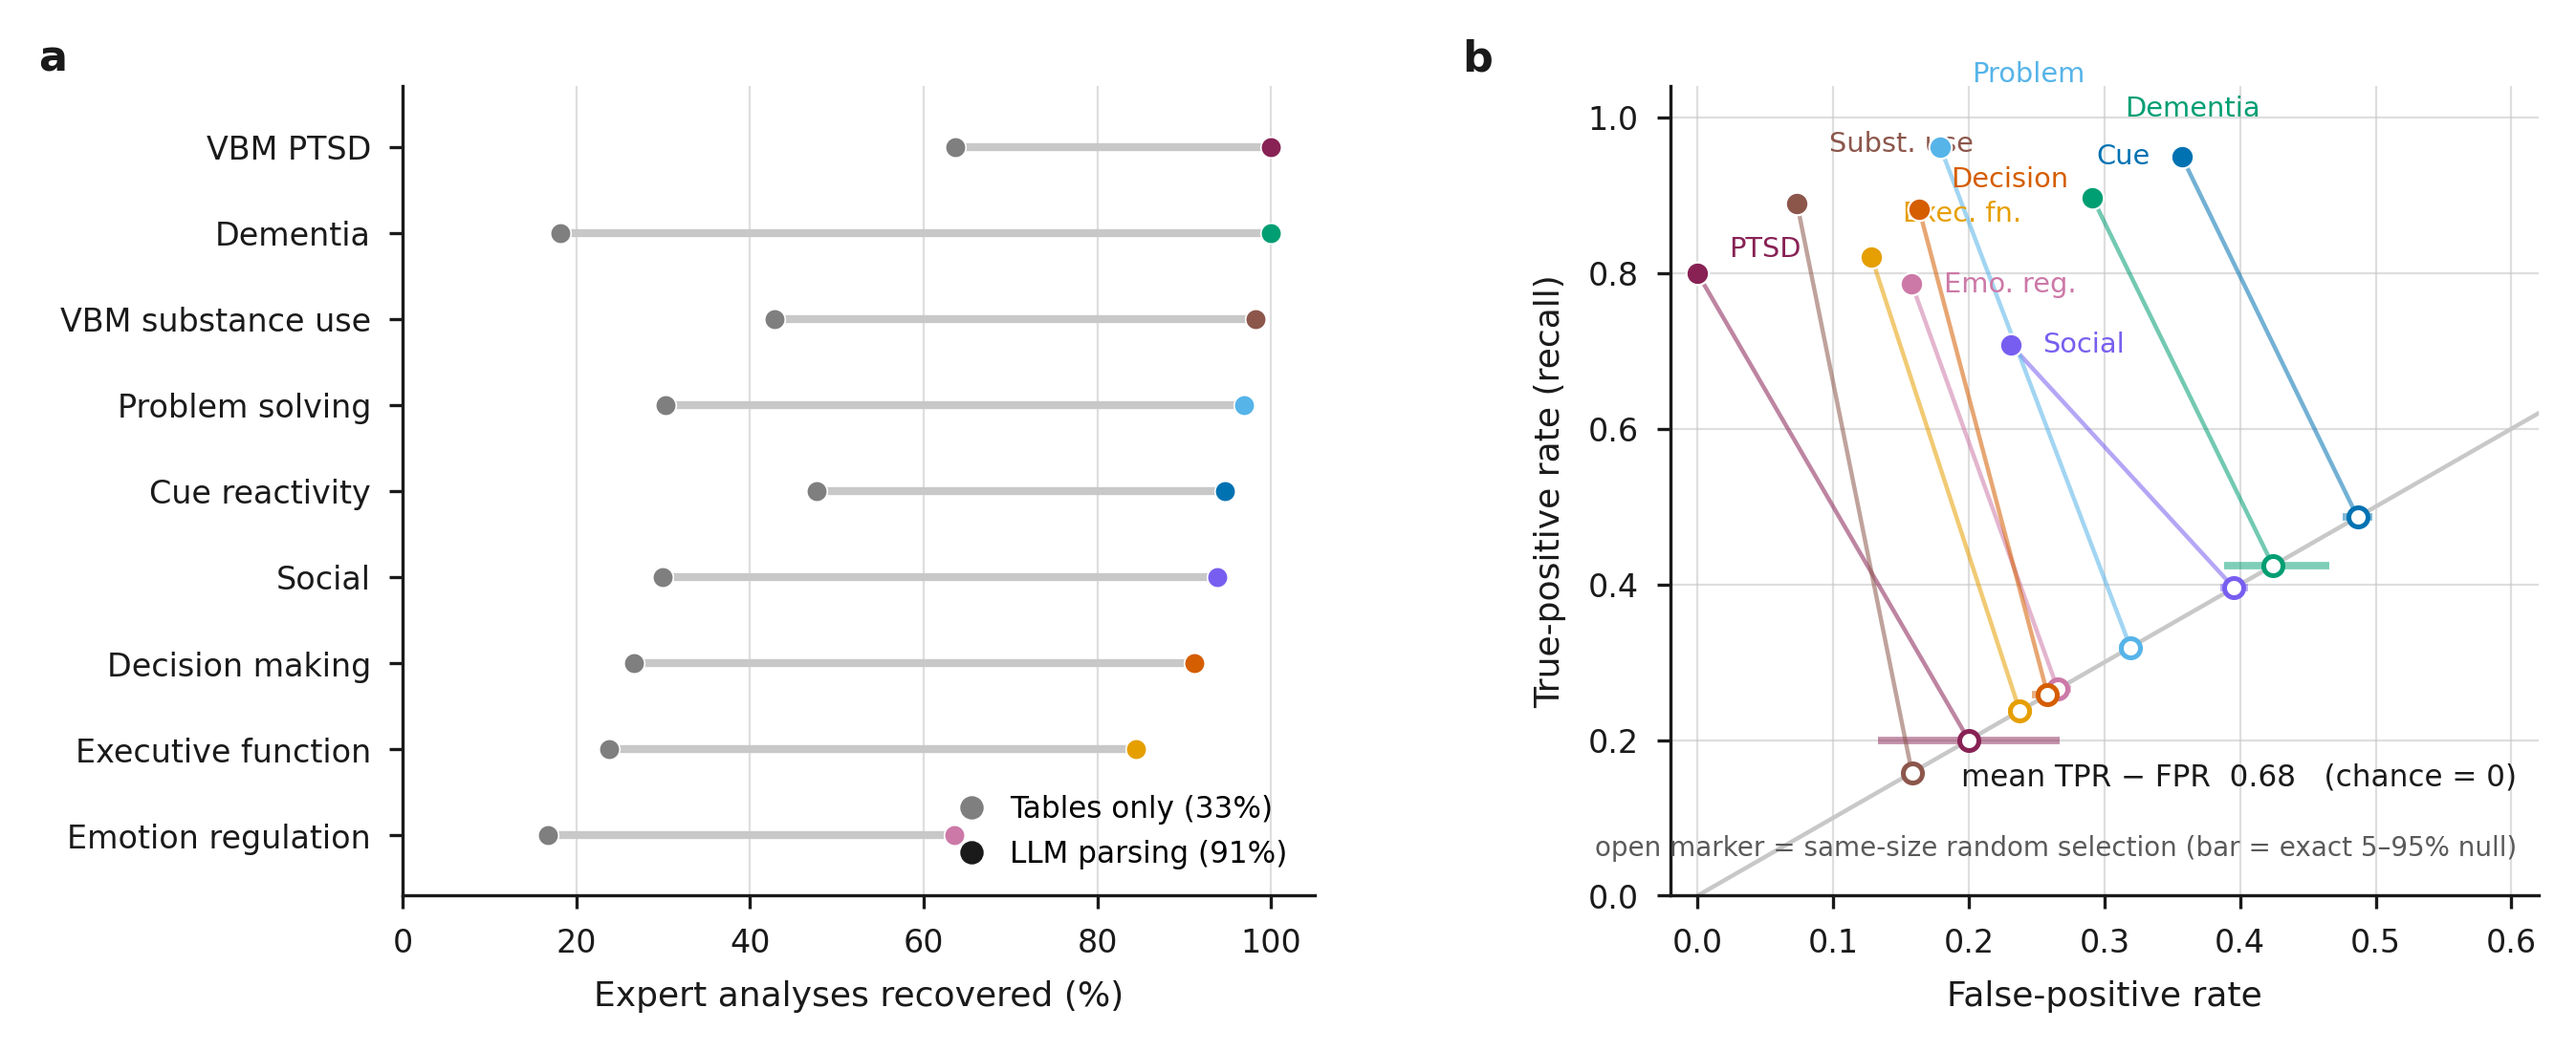
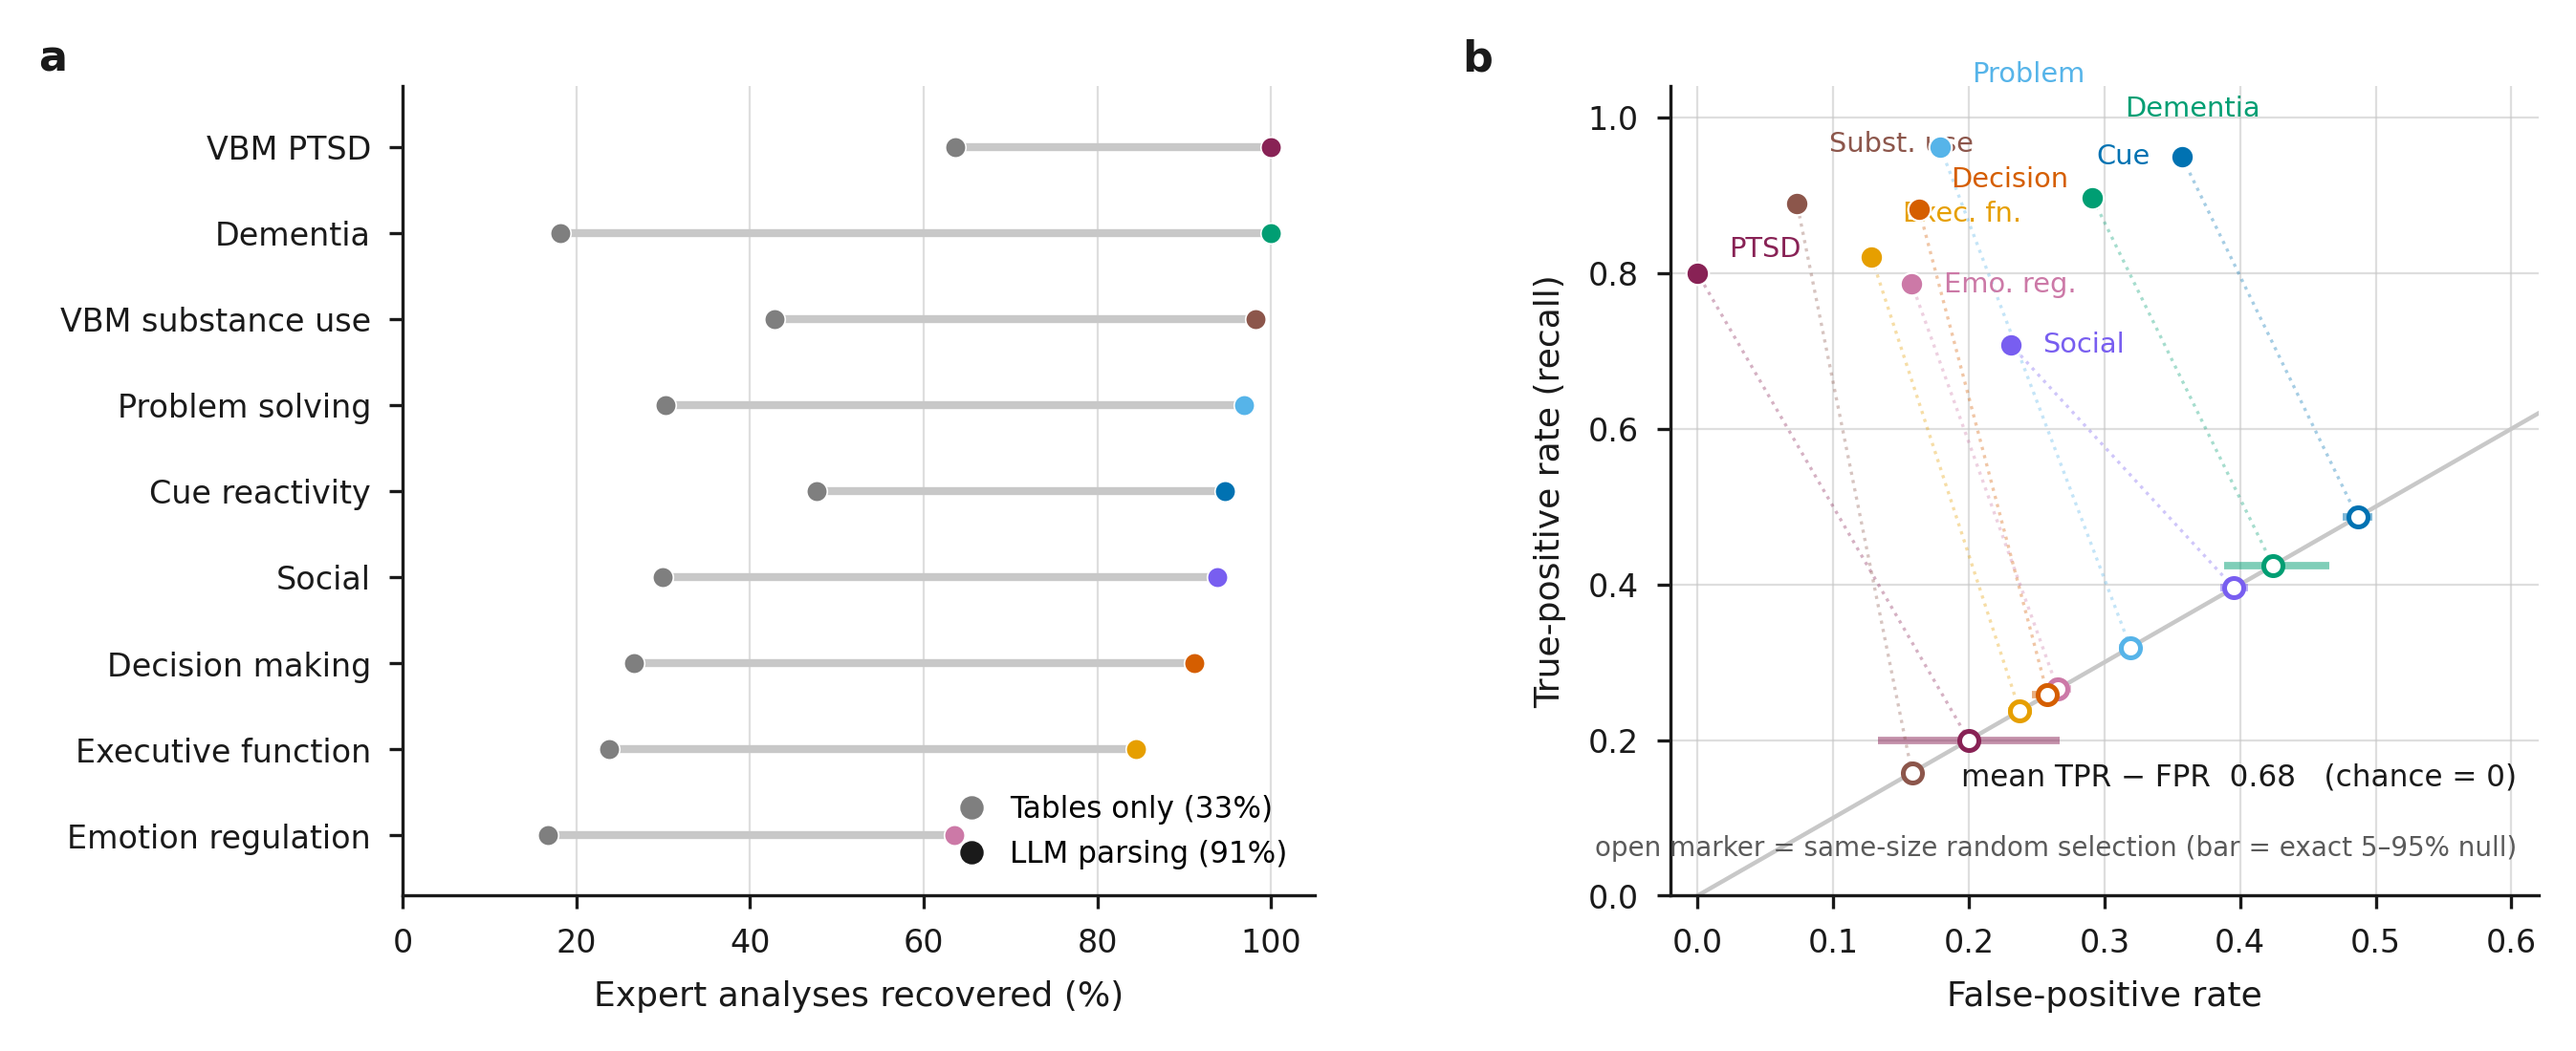
fade the null connectors in the ROC panel
Nine solid connectors read as data and crowded the panel. Dotted at lw 0.6 and alpha 0.35 they
still say which null belongs to which point -- which is all they are for, and colour alone is
ambiguous with nine open markers sitting on the diagonal -- while the filled points and the
chance line carry the figure.

Changed region(s): [[0.7171, 0.2473, 0.8107, 0.6491], [0.7795, 0.5564, 0.8107, 0.6491], [0.686, 0.3709, 0.7171, 0.4327]]

diff --git a/scripts/make_nature_methods_figures.py b/scripts/make_nature_methods_figures.py
@@ -610,7 +610,9 @@ def figure3alt(out_dir: Path) -> None:
         lo_fpr, hi_fpr = (k - hi_tp) / (N - P), (k - lo_tp) / (N - P)
         ax.plot([lo_fpr, hi_fpr], [null, null], color=c, lw=1.4, alpha=0.5, zorder=2,
                 solid_capstyle="butt")
-        ax.plot([null, fpr], [null, tpr], color=c, lw=0.8, alpha=0.55, zorder=2)
+        # Dotted and faint: the connector only has to say which null belongs to which
+        # point. Drawn solid, nine of them read as data and crowded the panel.
+        ax.plot([null, fpr], [null, tpr], color=c, lw=0.6, alpha=0.35, ls=":", zorder=2)
         ax.scatter([null], [null], s=13, facecolors="white", edgecolors=c, linewidths=0.9,
                    zorder=3)
         ax.scatter([fpr], [tpr], s=18, color=c, edgecolors="white", linewidths=0.4, zorder=4)
